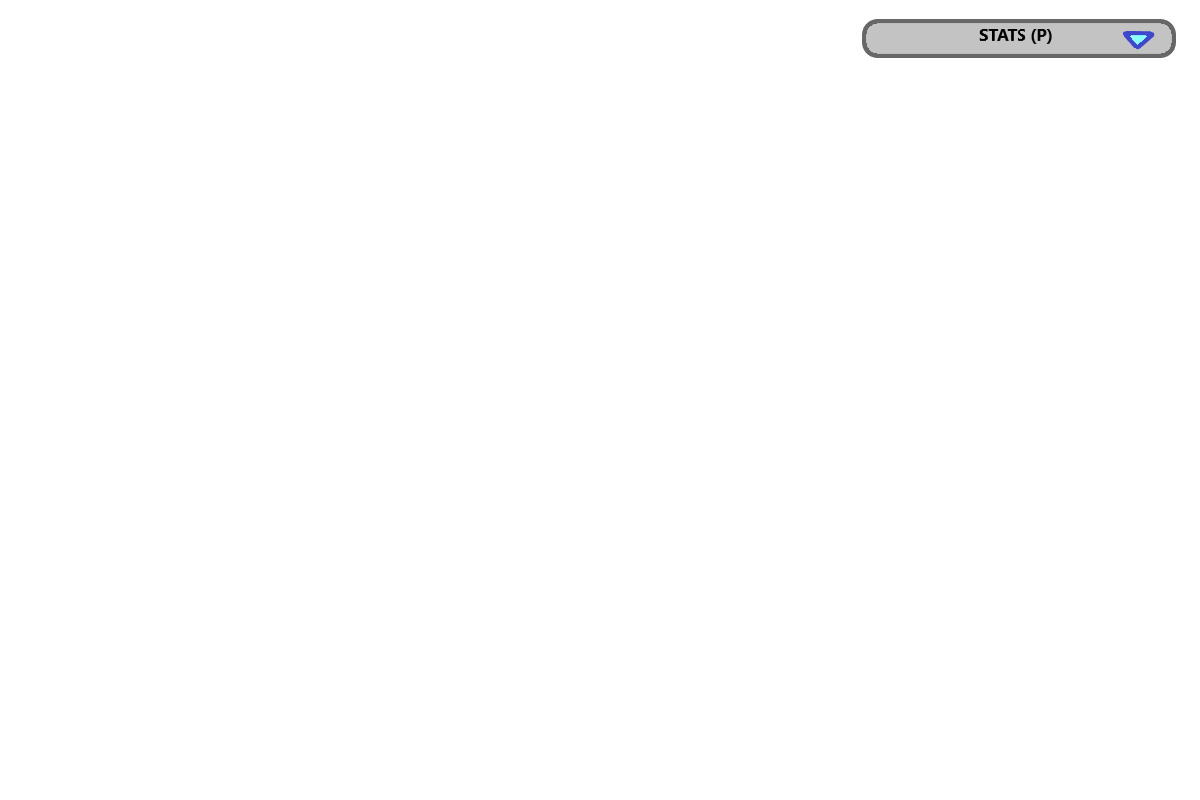
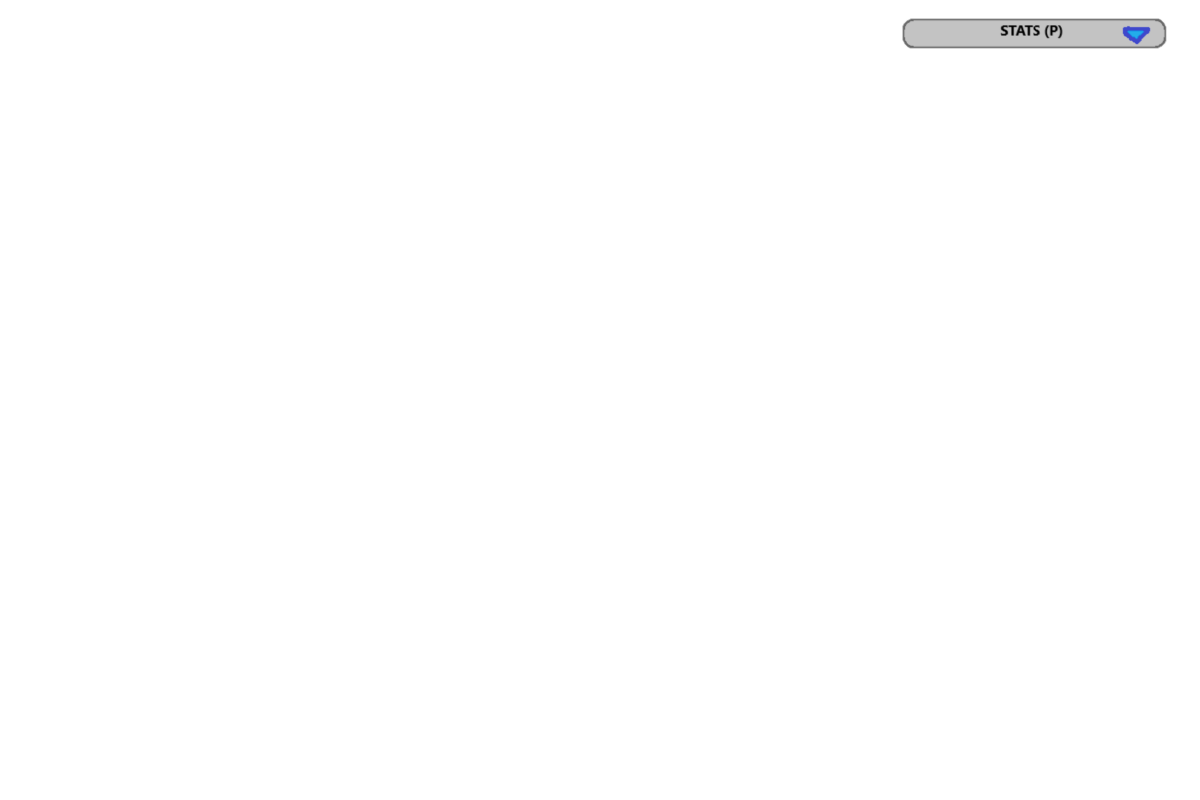
Add files via upload
+ stats are now fully functioning

Changed region(s): [[0.7092, 0.0, 0.9867, 0.0938]]

diff --git a/codes/Main.java b/codes/Main.java
@@ -34,16 +34,14 @@ public class Main extends Application {
 	private Player player = new Player(100.0, 0.0,100,50);
 	private Entities statsUndropped = new Entities(0, 0, WIDTH, HEIGHT, "stats1", "stats1.png");
 	private Entities statsDropped = new Entities(0, 0, WIDTH, HEIGHT, "stats2", "stats2.png");
-	private ArrayList<Entities> itemsInCurrentRoom = new ArrayList();
+	private ArrayList<Entities> itemsInCurrentRoom = new ArrayList<Entities>();
 	
 	private Rooms[][] room = new Rooms[2][2];
 	
 	private int[][] playerCurrentRoom = {{0}, {0}};
 	
-	private Text itemName = new Text() { {
-		this.setFont(new Font("Comic Sans MS", 18));
-	}
-	};
+	private Text[] statsText = new Text[4];
+	private Text itemName = new Text();
 
 	/**
 	 * This function modifies our Pane before its passed down as a parameter when we create a new Scene
@@ -61,7 +59,21 @@ public class Main extends Application {
 				room[i][j] = new Rooms(i, j);
 			}
 		}
-				// render the first room at start up
+		
+		itemName.setFont(new Font("Comic Sans MS", 18));
+		
+		player.generateStats();
+		for (int i = 0; i < 4; i++) {
+			statsText[i] = new Text();
+			
+			statsText[i].setFont(new Font("Comic Sans MS", 22));
+			statsText[i].setTranslateX(960);
+			statsText[i].setTranslateY(110 + (i*40)); // 30 is the gap between the stats
+		}
+		statsText = player.updateStatsText(statsText);
+		
+		
+		// render the first room at start up
 		changeRoom(0,0);
 		// adding the player, and enemies?
 		root.getChildren().add(player);
@@ -129,25 +141,25 @@ public class Main extends Application {
 	}
 	
 	/**
-	 * when called, an interaction with an npc shows up
-	 * in this case, a text bubble shows up when the space bar is pressed
+	 * Handles interaction with items/npcs
 	 */
 	private void interact() {
+		// if the player is intersecting with an item, pick up the item
 		if (intersectingWith != -1) {
-			root.getChildren().remove(itemsInCurrentRoom.get(intersectingWith));
+			Entities item = itemsInCurrentRoom.get(intersectingWith);
+			
+			if (item.getEntityType() == "Collectable") {
+				player.addCollectableToInventory((Collectable) item);
+			} else {
+				player.interactWithItem((Instant) item);
+			}
+			player.updateStatsText(statsText);
+			
+			root.getChildren().remove(item);
 			itemsInCurrentRoom.remove(intersectingWith);
-//			room[player.getCurrentRoomX()][player.getCurrentRoomY()].removeItem(intersectingWith);
 			intersectingWith = -1;
+			root.getChildren().remove(itemName);
 		}
-//		if (player.getBoundsInParent().intersects(itemExample.getBoundsInParent())) {
-//			if (!root.getChildren().contains(bubble)) {
-//				bubble = new Entities((int) itemExample.getTranslateX(), (int) itemExample.getTranslateY() - 80, 80, 80, "bubble", "text.png");
-//				root.getChildren().add(bubble);
-//			} else {
-//				root.getChildren().remove(bubble);
-//			}
-//
-//		}
 	}
 	
 	/**
@@ -159,8 +171,16 @@ public class Main extends Application {
 		if (root.getChildren().contains(statsUndropped)) {
 			root.getChildren().remove(statsUndropped);
 			root.getChildren().add(statsDropped);
+			root.getChildren().add(statsText[0]);
+			root.getChildren().add(statsText[1]);
+			root.getChildren().add(statsText[2]);
+			root.getChildren().add(statsText[3]);
 		} else {
 			root.getChildren().remove(statsDropped);
+			root.getChildren().remove(statsText[0]);
+			root.getChildren().remove(statsText[1]);
+			root.getChildren().remove(statsText[2]);
+			root.getChildren().remove(statsText[3]);
 			root.getChildren().add(statsUndropped);
 		}
 	}
@@ -195,14 +215,12 @@ public class Main extends Application {
 		playerCurrentRoom[1][0] = player.getCurrentRoomY();
 	}
 	
-	/**
-	 * yall know what goes down here
-	 */
+
 	@Override
 	public void start(Stage stage) throws Exception {
 		
 		Scene scene = new Scene(initialGameContent());
-
+		
 		// Key pressed listener. To bind a new key, add a new case statement
 		scene.setOnKeyPressed(e -> {
 			switch (e.getCode()) {

diff --git a/codes/Player.java b/codes/Player.java
@@ -3,6 +3,7 @@ package codes;
 import java.util.ArrayList;
 import java.util.Random;
 import java.util.Scanner;
+import javafx.scene.text.Text;
 
 public class Player extends Entities{
 	
@@ -13,7 +14,7 @@ public class Player extends Entities{
 	public int timeLft = 0;
 	public String facing = "east";
 	//LOGIC
-	private int[] stats = new int[4];
+	private int[] stats = {0, 0, 0, 0};
 	private ArrayList<Collectable> inventory = new ArrayList<Collectable>();
 	private double health;// default health
 	private double attack;// default attack damage
@@ -99,13 +100,13 @@ public class Player extends Entities{
 			System.out.println("Defense:" + stats[1]);
 			System.out.println("Speed:" + stats[2]);
 			System.out.println("Luck:" + stats[3]);
-			System.out.println("Press 'r' to reroll your stats, if you are satisfied press any key to continue");
-			String input = kb.nextLine();
-			if (input.equals("r")) {
-
-				reroll = true;
-				maxStat = 25;
-			}
+//			System.out.println("Press 'r' to reroll your stats, if you are satisfied press any key to continue");
+//			String input = kb.nextLine();
+//			if (input.equals("r")) {
+//
+//				reroll = true;
+//				maxStat = 25;
+//			}
 
 		} while (maxStat != 0 && reroll == true);
 
@@ -116,11 +117,14 @@ public class Player extends Entities{
 	/**
 	 * Print statistics of the player
 	 */
-	public void printStats() {
-		System.out.println("Attack:" + this.stats[0]);
-		System.out.println("Defense:" + this.stats[1]);
-		System.out.println("Speed:" + this.stats[2]);
-		System.out.println("Luck:" + this.stats[3]);
+	public Text[] updateStatsText(Text[] t) {
+		
+		t[0].setText("Attack: 	" + stats[0]);
+		t[1].setText("Defense: 	" + stats[1]);
+		t[2].setText("Speed: 	" + stats[2]);
+		t[3].setText("Luck: 	" + stats[3]);
+
+		return t;
 	}
 	
 	/**
@@ -129,13 +133,13 @@ public class Player extends Entities{
 	 * @param item
 	 */
 	public void addCollectableToInventory(Collectable cb) {
-		System.out.println("you picked up: " + cb.getName());
+		System.out.println("Added to inventory: " + cb.getName());
 		inventory.add(cb);
 		stats[cb.getType()] += cb.getValue();
 	}
 	
 	public void interactWithItem(Instant instant) {
-		System.out.println("you used/picked up" + instant.getName());
+		System.out.println("you used/picked up " + instant.getName());
 		stats[instant.getType()] += instant.getValue();
 	}
 	

diff --git a/codes/Entities.java b/codes/Entities.java
@@ -14,8 +14,7 @@ import javafx.scene.shape.Rectangle;
  *
  */
 public class Entities extends Rectangle {
-	private boolean isVisible = false;
-	private String itemType;
+	private String entityType;
 	private Image objectImage;
 	
 	/**
@@ -31,7 +30,7 @@ public class Entities extends Rectangle {
 		// creating a new rectangle
 		super(w, h);
 		
-		this.itemType = type;
+		this.entityType = type;
 		
 		// if object has a sprite, add sprite.
 		updateImage(image);
@@ -47,7 +46,7 @@ public class Entities extends Rectangle {
 	 */
 	public Entities(int w, int h, String type) {
 		super(w, h);
-		this.itemType = type;
+		this.entityType = type;
 	}
 	
 	public void updateImage(String imageName) {
@@ -71,9 +70,12 @@ public class Entities extends Rectangle {
 		return pos;
 	}
 	
+	// When we change Entities to abstract, make this function abstract
 	public String getName() {
-		return itemType;
-		
+		return entityType;
 	}
 	
+	public String getEntityType() {
+		return entityType;
+	}
 }

diff --git a/codes/Rooms.java b/codes/Rooms.java
@@ -7,7 +7,7 @@ public class Rooms {
 	// room names should be the name of the room's picture
 	private String[][] roomNames = {{"room11", "room12"}, {"room21", "room22"}};
 	private int[] roomCoord = new int[2]; 
-	private ArrayList<Entities> roomContents = new ArrayList();
+	private ArrayList<Entities> roomContents = new ArrayList<Entities>();
 	
 	public ArrayList<Entities> getRoomContents() {
 		ArrayList<Entities> roomContentsToCopy = roomContents;
@@ -39,10 +39,6 @@ public class Rooms {
 				roomContents.add(new Collectable(itemIndex, 10.0, 1));
 			}
 		}
-	}
-	
-	public void removeItem(int index) {
-		roomContents.remove(index);
 	}
 	
 }
